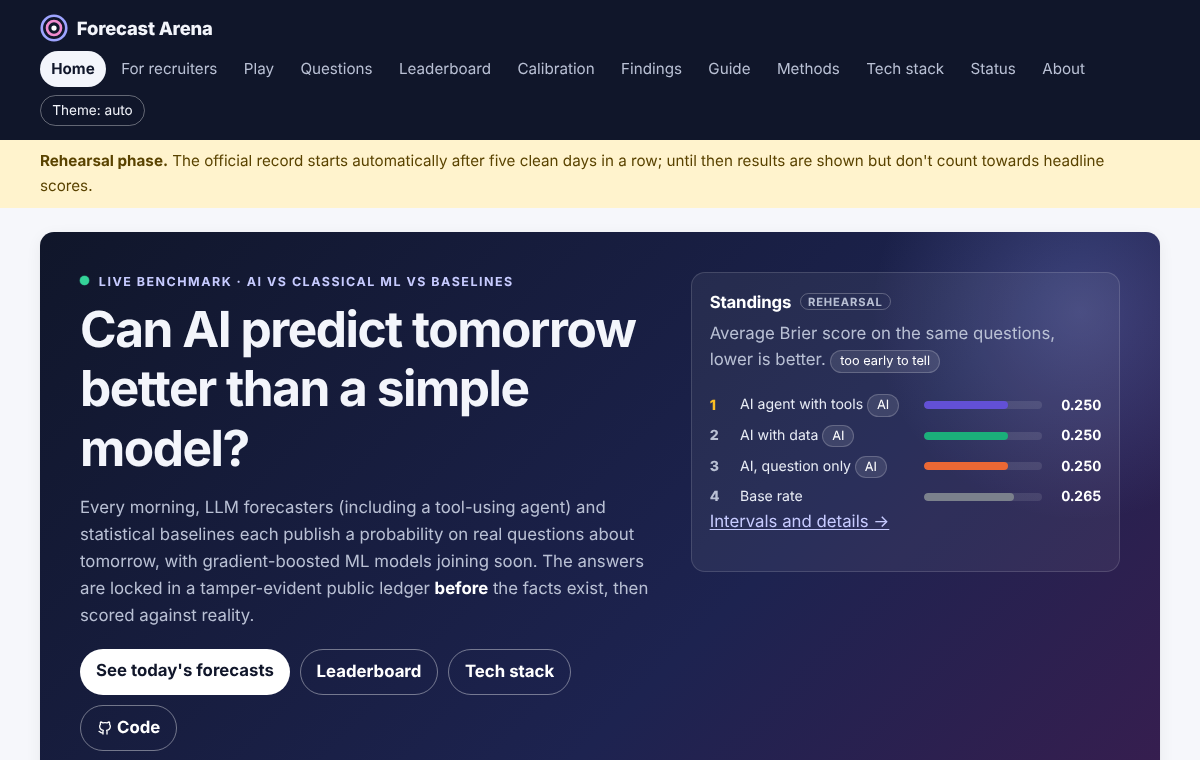
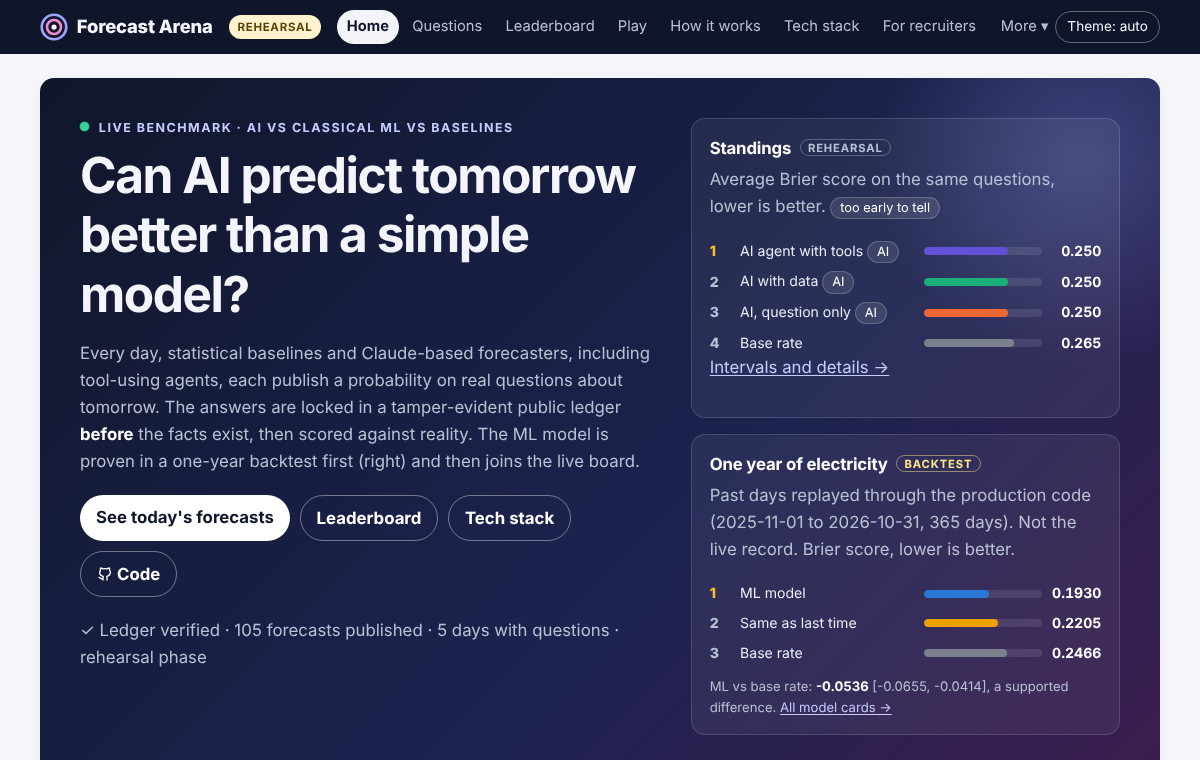
T186: home hero backtest card and honest recruiter page
Claude-Session: https://claude.ai/code/session_01T7wLMVGg8K3ZF2NnAm8YZ5

diff --git a/src/arena/site/templates/index.html b/src/arena/site/templates/index.html
@@ -11,10 +11,11 @@
 <div class="hero-copy">
 <p class="kicker"><span class="pulse" aria-hidden="true"></span> Live benchmark · AI vs classical ML vs baselines</p>
 <h1 id="hero-title">Can AI predict tomorrow better than a simple model?</h1>
-<p>Every morning, LLM forecasters (including a tool-using agent){% if ml_live %}, gradient-boosted ML models{% endif %} and statistical baselines each publish a probability on real questions about tomorrow{% if not ml_live %}, with gradient-boosted ML models joining soon{% endif %}. The answers are locked in a tamper-evident public ledger <strong>before</strong> the facts exist, then scored against reality.</p>
+<p>Every day, statistical baselines{% if ml_live %}, a gradient-boosted ML model{% endif %} and Claude-based forecasters, including tool-using agents, each publish a probability on real questions about tomorrow. The answers are locked in a tamper-evident public ledger <strong>before</strong> the facts exist, then scored against reality.{% if not ml_live and backtest %} The ML model is proven in a one-year backtest first (right) and then joins the live board.{% endif %}</p>
 <p class="actions"><a class="btn" href="#today">See today's forecasts</a> <a class="btn btn-ghost" href="leaderboard.html">Leaderboard</a> <a class="btn btn-ghost" href="stack.html">Tech stack</a> <a class="btn btn-ghost" href="{{ repo_url }}">{{ icon("github") }} Code</a></p>
 <p class="trust">{{ "✓ Ledger verified" if verify_ok else "✗ Ledger check failed" }} · {{ forecast_count }} forecasts published · {{ days_live }} days with questions · {% if official_start %}official since {{ official_start }}{% else %}rehearsal phase{% endif %}</p>
 </div>
+<div class="hero-side">
 <aside class="standings" aria-labelledby="st-title">
 <h2 id="st-title">Standings <span class="st-scope">{{ "official" if official_start else "rehearsal" }}</span></h2>
 {% if board.rows %}
@@ -26,10 +27,19 @@
 {% else %}
 <p class="st-note">The lineup. Standings appear here as soon as the first answers arrive.</p>
 <ul class="lineup">
-{% for fid in ("base_rate", "persistence", "ml", "llm_plain", "llm_context", "agent") %}<li><span class="dot-key {{ series_class(fid) }}" aria-hidden="true"></span>{{ fname(fid) }}{% if is_ai(fid) %} <span class="label">AI</span>{% endif %}{% if fid == "ml" and not ml_live %} <span class="label">joining soon</span>{% endif %}</li>{% endfor %}
+{% for fid in ("base_rate", "persistence", "ml", "llm_plain", "llm_context", "agent") %}<li><span class="dot-key {{ series_class(fid) }}" aria-hidden="true"></span>{{ fname(fid) }}{% if is_ai(fid) %} <span class="label">AI</span>{% endif %}{% if fid == "ml" and not ml_live %} <span class="label">backtest only</span>{% endif %}</li>{% endfor %}
 </ul>
 {% endif %}
 </aside>
+{% if backtest %}<aside class="standings bt-card" aria-labelledby="bt-title">
+<h2 id="bt-title">One year of electricity <span class="st-scope bt-scope">backtest</span></h2>
+<p class="st-note">Past days replayed through the production code ({{ backtest.start }} to {{ backtest.end }}, {{ backtest.days }} days). Not the live record. Brier score, lower is better.</p>
+<ol class="st-list">
+{% for fid, v, x in backtest.rows %}<li><span class="st-rank">{{ loop.index }}</span><span class="st-name">{{ fname(fid) }}</span><span class="st-bar" aria-hidden="true"><span class="st-fill {{ series_class(fid) }}" style="width: {{ '%.1f'|format([x / 0.35, 1]|min * 100) }}%"></span></span><span class="st-val">{{ v }}</span></li>
+{% endfor %}</ol>
+<p class="st-foot">ML vs base rate: <strong>{{ backtest.diff }}</strong> {{ backtest.interval }}{% if backtest.supported %}, a supported difference{% endif %}. <a href="backtests.html">All model cards →</a></p>
+</aside>{% endif %}
+</div>
 </section>
 
 <div class="kpis">

diff --git a/src/arena/site/templates/recruiters.html b/src/arena/site/templates/recruiters.html
@@ -1,7 +1,7 @@
 {% extends "base.html" %}
 {% from "macros.html" import page_head %}
 {% block content %}
-{{ page_head("For recruiters", "Forecast Arena in 60 seconds", "A live benchmark that asks whether AI agents beat classical machine learning at forecasting tomorrow, built end to end by one person, with every claim checkable.") }}
+{{ page_head("For recruiters", "Forecast Arena in 60 seconds", "A live benchmark that asks whether AI agents beat classical machine learning at forecasting tomorrow. Designed and directed by me, implemented together with an AI coding agent; every claim on this site is computed from the public record and can be checked.") }}
 <div class="kpis">
 <div class="kpi"><span class="kpi-n">{{ k.questions }}</span><span class="kpi-l">questions asked</span></div>
 <div class="kpi"><span class="kpi-n">{{ k.forecasts }}</span><span class="kpi-l">forecasts published before the answer</span></div>
@@ -12,6 +12,14 @@
 <p>Every day the system publishes yes/no questions about the near future from public data (electricity prices first), the evening before they lock. Baselines, a gradient-boosting model, LLM forecasters and two LLM agents each publish a probability <strong>before</strong> the answer exists, into an append-only, hash-chained public record. The next day the answers arrive and every forecast is scored with proper scoring rules. It runs entirely on GitHub Actions and Pages for about one US dollar a month of AI usage.</p>
 <p><strong>Measured so far:</strong> see the <a href="backtests.html">backtests</a> (a year of replayed past days, clearly labelled as not live), the <a href="evals.html">LLM evaluation</a> (it found and fixed a real bug) and the <a href="leaderboard.html">live leaderboard</a>, which says "too early to tell" until the statistics can decide.</p>
 </section>
+<section class="card" aria-labelledby="r-five"><h2 id="r-five">Five things worth 30 seconds</h2>
+<ol class="five">
+<li><a href="guide.html#verify"><strong>Verify the record yourself.</strong></a> One command re-checks every hash and that no forecast was written after its question locked.</li>
+<li><a href="backtests.html"><strong>A year of backtests.</strong></a> The champion model against baselines and challengers (LightGBM, a PyTorch network, Chronos, SARIMAX, ETS), losers included.</li>
+<li><a href="evals.html"><strong>The eval that caught a bug.</strong></a> A frozen golden set showed answers cut off by an output cap{% if json_change %}; first-try valid JSON went from {{ json_change.before }} to {{ json_change.after }}{% endif %}.</li>
+<li><a href="stack.html"><strong>The architecture.</strong></a> Live data with an as-of gateway against look-ahead, an append-only ledger, proper scoring, MLOps, CI-gated releases.</li>
+<li><a href="{{ repo_url }}/blob/main/src/arena/agent/forecaster.py"><strong>Read the agent loop.</strong></a> A tool-calling agent whose limits (calls, time, tokens) are enforced by the harness, not the prompt.</li>
+</ol></section>
 {% if personal %}<section class="card" aria-labelledby="r-me"><h2 id="r-me">About me</h2><div class="prose">{{ personal }}</div></section>{% endif %}
 <h2>What the postings ask for, and where to see it</h2>
 <div class="table-scroll" tabindex="0" role="region" aria-label="Skills and proof"><table class="proof">

diff --git a/src/arena/site/static/style.css b/src/arena/site/static/style.css
@@ -644,3 +644,9 @@ ul.plain { list-style: none; padding: 0; margin: 0; display: grid; gap: .45rem; 
 }
 .rehearsal-note { background: var(--banner); color: var(--banner-fg); border-radius: 10px;
   padding: .6rem .9rem; }
+
+/* T186: home hero side column: live standings and the labelled backtest card */
+.hero-side { display: grid; gap: 1rem; position: relative; z-index: 1; }
+.bt-scope { color: #fde68a; border-color: rgba(253, 230, 138, .5); }
+.bt-card .st-foot { font-size: .82rem; color: var(--ink-muted); margin: .7rem 0 0; }
+.bt-card .st-foot strong { color: #fff; }

diff --git a/src/arena/site/build.py b/src/arena/site/build.py
@@ -41,7 +41,7 @@ from arena.scoring.core import Scored, clip, counts, load
 from arena.scoring.findings import findings, power_table
 from arena.scoring.stats import calibration_bins, expected_calibration_error, murphy
 from arena.site.api import ENDPOINTS, build_api
-from arena.site.cards_page import load_cards
+from arena.site.cards_page import headline_backtest, load_cards
 from arena.site.charts import forest_svg, race_svg, reliability_svg, series_class
 from arena.site.game import live_deck, practice_deck
 from arena.site.llm_obs import PRICE_SOURCE, load_spans, totals, traces_by_question, usage_rows
@@ -403,6 +403,23 @@ def eval_runs(evals_dir: Path | None) -> list[dict[str, Any]]:
     return sorted(runs, key=lambda r: str(r.get("created_at")), reverse=True)
 
 
+def json_validity_change(
+    runs: Sequence[dict[str, Any]], fid: str = "llm_plain"
+) -> dict[str, str] | None:
+    """First-try valid JSON of `fid` in the oldest and newest eval run, as percentages (T186).
+
+    Computed from the committed eval results, so the recruiter page never types it (I5).
+    """
+    vals = []
+    for r in sorted(runs, key=lambda r: str(r.get("created_at"))):
+        v = r.get("metrics", {}).get(fid, {}).get("json_valid_first_try")
+        if v is not None:
+            vals.append(v)
+    if len(vals) < 2:
+        return None
+    return {"before": f"{100 * vals[0]:.0f}%", "after": f"{100 * vals[-1]:.0f}%"}
+
+
 def official_start(ledger: Ledger) -> str | None:
     """The official start date if `meta/official_start.json` exists."""
     if not ledger.exists(layout.OFFICIAL_START_PATH):
@@ -561,6 +578,7 @@ def build_site(
                 "topics": domain_stats(rec),
                 "forecast_count": len(rec.forecasts),
                 "ml_live": any(f.forecaster_id == "ml" for f in rec.forecasts),
+                "backtest": headline_backtest(models_dir),
                 "days_live": len(batches),
                 "counts": counts(rec),
                 "verify_ok": rep.ok,
@@ -681,6 +699,7 @@ def build_site(
             {
                 "proofs": PROOFS,
                 "personal": read_content("recruiters.md"),
+                "json_change": json_validity_change(eval_runs(evals_dir)),
                 "k": {
                     "questions": len(rec.questions),
                     "forecasts": len(rec.forecasts),

diff --git a/tests/unit/test_home_hero.py b/tests/unit/test_home_hero.py
@@ -1,0 +1,43 @@
+"""T186: the home hero's BACKTEST card and the recruiter page are generated, not typed."""
+
+import json
+import re
+from datetime import UTC, datetime
+from pathlib import Path
+
+from arena.clock import FixedClock
+from arena.ledger import Ledger
+from arena.site.build import build_site, json_validity_change
+from arena.site.cards_page import headline_backtest
+
+ROOT = Path(__file__).resolve().parents[2]
+MODELS, EVALS = ROOT / "docs" / "models", ROOT / "evals" / "results"
+
+
+def _site(tmp_path):
+    clock = FixedClock(datetime(2026, 11, 13, tzinfo=UTC))
+    return build_site(Ledger(tmp_path / "l"), tmp_path / "site", clock, ROOT / "site_content",
+                      models_dir=MODELS, evals_dir=EVALS).out_dir  # fmt: skip
+
+
+def test_backtest_card_matches_the_model_card(tmp_path) -> None:
+    card = (MODELS / "power.md").read_text()
+    bt = headline_backtest(MODELS)
+    assert bt is not None and bt["days"] == 365 and bt["supported"]
+    for fid, v, _ in bt["rows"]:
+        assert re.search(rf"^\| {fid} \| \d+ \| {re.escape(v)} \|", card, re.M), fid
+    assert f"| ml - base_rate | {bt['diff']} | {bt['interval']} |" in card
+    home = (_site(tmp_path) / "index.html").read_text()
+    assert ">backtest</span>" in home and bt["diff"] in home and "Not the live record" in home
+    assert "joining soon" not in home
+    assert headline_backtest(tmp_path / "missing") is None
+
+
+def test_recruiter_page_is_honest_and_computed(tmp_path) -> None:
+    page = (_site(tmp_path) / "recruiters.html").read_text()
+    assert "by one person" not in page and "AI coding agent" in page
+    assert "Five things worth 30 seconds" in page and 'href="guide.html#verify"' in page
+    runs = [json.loads(p.read_text()) for p in EVALS.glob("eval-*.json")]
+    ch = json_validity_change(runs)
+    assert ch is not None and f"from {ch['before']} to {ch['after']}" in page
+    assert json_validity_change(runs[:1]) is None

diff --git a/src/arena/site/cards_page.py b/src/arena/site/cards_page.py
@@ -83,3 +83,27 @@ def load_cards(models_dir: Path | None) -> list[dict[str, Any]]:
         out.append({"id": f"card-{stem}", "stem": stem, "title": title,
                     "html": render_card(body, title)})  # fmt: skip
     return out
+
+
+def headline_backtest(models_dir: Path | None, stem: str = "power") -> dict[str, Any] | None:
+    """The home page's BACKTEST card (T186), parsed from a committed model card.
+
+    Returns the Brier score of each forecaster in the card's first table, the paired
+    difference of `ml` against the base rate with its interval, and the period; None when
+    the card is missing or does not have that shape. Values are copied, never computed
+    here, so the home page and the card can never disagree (I5).
+    """
+    if models_dir is None or not (models_dir / f"{stem}.md").is_file():
+        return None
+    text = (models_dir / f"{stem}.md").read_text(encoding="utf-8")
+    rows = {m.group(1): m.group(3) for m in
+            re.finditer(r"^\| (\w+) \| (\d+) \| ([0-9.]+) \| \[", text, re.M)}  # fmt: skip
+    diff = re.search(r"^\| ml - base_rate \| ([-+0-9.]+) \| (\[[^\]]+\]) \| (yes|no)", text, re.M)
+    span = re.search(r"Batches (\S+) to (\S+) \((\d+) batch days\)", text)
+    if not rows.get("ml") or not rows.get("base_rate") or diff is None or span is None:
+        return None
+    return {
+        "rows": [(f, v, float(v)) for f, v in sorted(rows.items(), key=lambda kv: float(kv[1]))],
+        "diff": diff.group(1), "interval": diff.group(2), "supported": diff.group(3) == "yes",
+        "start": span.group(1), "end": span.group(2), "days": int(span.group(3)),
+    }  # fmt: skip

diff --git a/tests/unit/test_site_pages.py b/tests/unit/test_site_pages.py
@@ -163,7 +163,9 @@ def test_home_race_spotlight_and_honest_ml_status(tmp_path) -> None:
 
     _, res = _site(tmp_path)
     home = (res.out_dir / "index.html").read_text()
-    assert "Biggest disagreement today" in home and "joining soon" in home
+    assert "Biggest disagreement today" in home
+    # honest ML status (T186): no ML forecasts in this ledger, so the hero does not claim one
+    assert "a gradient-boosted ML model" not in home and "joining soon" not in home
     rows = [{"pn": {"a": 0.1, "b": 0.9}, "q": 1}, {"pn": {"a": 0.5, "b": 0.6}, "q": 2}]
     assert featured_row(rows)["q"] == 1 and featured_row([]) is None
     d = datetime(2026, 11, 1, tzinfo=UTC).date()

diff --git a/docs/project/PROGRESS.md b/docs/project/PROGRESS.md
@@ -82,6 +82,7 @@ readers the notebook really uses.
 
 ## Done log
 
+- 2026-11-13 T186: home hero: "joining soon" gone; labelled BACKTEST card (one year of electricity, parsed from docs/models/power.md) beside live standings; recruiter page: honest authorship line, "five things worth 30 seconds" (figures from eval files); README screenshots regenerated
 - 2026-11-13 T185: one-row header (7 primary links + "More" disclosure reaching Backtests, Experiments, LLM evals/observability, Data, API); rehearsal band -> pill, full sentence on Leaderboard/Findings/Methods; phone header 2 short rows; a11y 0 serious
 - 2026-11-13 T184: README first screen: pitch, tour links, one image, five generated highlights (cards + evals), stack line; detail tables collapsed
 - 2026-11-13 T183: repo root cleaned: requirements/ and docs/project/ (references, AGENTS.md, CLAUDE.md, scripts, Makefile, workflows, Dockerfile updated)

diff --git a/docs/project/TASKS.md b/docs/project/TASKS.md
@@ -565,7 +565,7 @@ first screens; honest authorship line). Order: A, then B1/B2/C1-C5, then the res
     becomes a pill; one header row on desktop, logo plus menu on phones.
   - Done when: `make a11y` passes with and without JavaScript; phone screenshot shows the
     headline on the first screen.
-- [ ] T186 · Home hero and recruiter page (deps: T185)
+- [x] T186 · Home hero and recruiter page (deps: T185)
   - Do: remove "joining soon"; BACKTEST card with the one-year electricity result from the
     model card; tech row; optional owner byline from `site_content/recruiters.md`;
     recruiter page with an honest authorship line and "five things worth 30 seconds".
